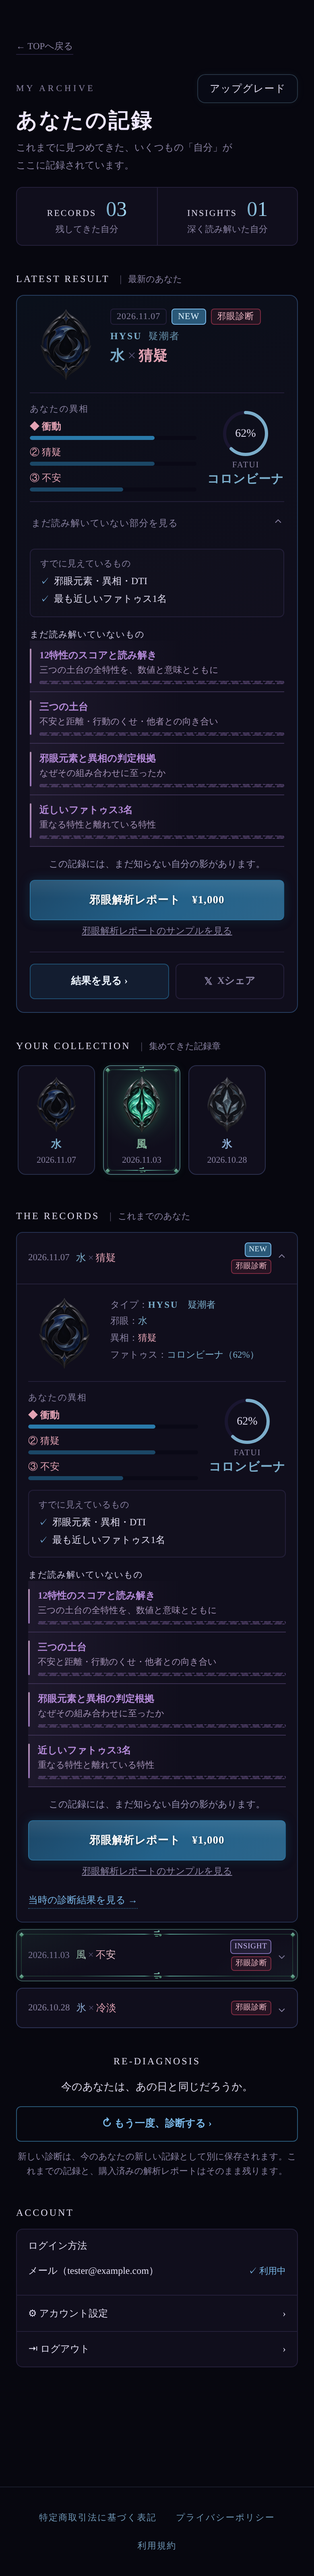
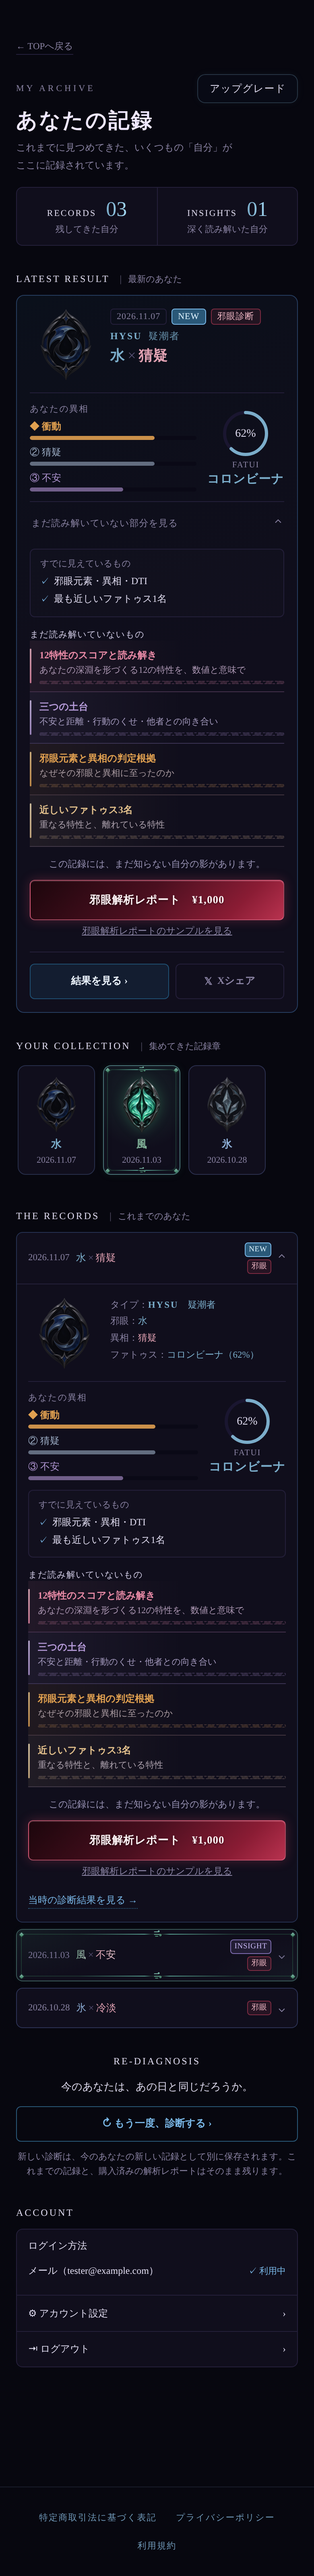
マイページの邪眼診断：異相は特性ごとの色（購入でグラデーション）、購入でファトゥスのグラデーションの円グラフ、読み解いていないものは項目ごとの色、申込・閲覧のボタンは赤黒、これまでのあなたの印は「邪眼」「元素」
Claude-Session: https://claude.ai/code/session_01G98Q4k59pxprHjFdWRszS7

diff --git a/mypage.html b/mypage.html
@@ -470,6 +470,24 @@
   .mp-jg-insight { margin-top: 12px; }
   .mp-jg-insight-t { font-size: 12.5px; color: var(--fg-dim); margin: 4px 0 10px; line-height: 1.8; }
   .mp-jg-buy-error { font-size: 12px; color: #f2a7b5; margin: 8px 0 0; }
+  .mp-chip.eti { color: #a9c9ec; border-color: rgba(122,184,232,.45); background: rgba(122,184,232,.10); }
+  .mp-jg-fill { position: relative; height: 100%; border-radius: 3px; }
+  /* まだ読み解いていないもの（邪眼）：項目ごとの色 */
+  .mp-lockbox .mp-locked-row[data-domain="jg-traits"] { --dc1: #e88aa6; --dc2: #f4bccb; }
+  .mp-lockbox .mp-locked-row[data-domain="jg-ground"] { --dc1: #b59ad8; --dc2: #d6c4ee; }
+  .mp-lockbox .mp-locked-row[data-domain="jg-basis"] { --dc1: #e0a050; --dc2: #f0cc90; }
+  .mp-lockbox .mp-locked-row[data-domain="jg-fatui"] { --dc1: #e2c08c; --dc2: #f4e0b8; }
+  .mp-lockbox .mp-locked-row[data-domain^="jg-"] .ghost { animation: mpJgShimmer 3.2s ease-in-out infinite; }
+  @keyframes mpJgShimmer { 0%, 100% { opacity: .55; } 50% { opacity: 1; } }
+  @media (prefers-reduced-motion: reduce) { .mp-lockbox .mp-locked-row[data-domain^="jg-"] .ghost { animation: none; } }
+  /* 邪眼解析レポートの申込・閲覧：赤黒（邪眼診断の配色。元素の青にしない） */
+  /* 元素の青の申込ボタン（.mp-lockbox … a.mp-btn.primary 等）より優先する */
+  #root .mp-btn.primary.mp-jg-cta, .ca-sheet .mp-btn.primary.mp-jg-cta {
+    min-height: 50px; font-size: 13.5px; letter-spacing: .04em; color: #fff4f6 !important; border: 1px solid rgba(232,110,140,.65) !important;
+    background: linear-gradient(135deg, #1c060c 0%, #4a0f1f 45%, #8a1c34 80%, #b8324f 100%) !important;
+    box-shadow: 0 0 14px rgba(200,64,92,.32), inset 0 1px 0 rgba(255,200,215,.18) !important; text-shadow: 0 1px 2px rgba(0,0,0,.5);
+  }
+  #root .mp-btn.primary.mp-jg-cta:hover:not([disabled]), .ca-sheet .mp-btn.primary.mp-jg-cta:hover:not([disabled]) { filter: brightness(1.12); }
   .mp-latest { background: var(--card-bg); border: 1px solid var(--card-border); border-radius: 10px; padding: 16px; }
 
   /* ---- 購入状態の見た目（LATEST RESULT／YOUR COLLECTION／THE RECORDSで共通の考え方） ----
@@ -1751,6 +1769,8 @@ function mpEmblemSeasonKey(record) {
 // 邪眼診断の証：覚醒前（record）・覚醒後（awakened。邪眼解析レポートを購入済み）。元素ごと
 const MP_JAGAN_EMBLEM = { '炎': 'pyro', '水': 'hydro', '風': 'anemo', '雷': 'electro', '草': 'dendro', '氷': 'cryo', '岩': 'geo' };
 const MP_JG_ISOU = '#e3a3b4';
+// 色の値は #RRGGBB だけを使う（style に入れる前に確かめる）
+function mpHex(v) { return /^#[0-9a-fA-F]{6}$/.test(String(v || '')) ? v : null; }
 function mpEmblemSrc(record) {
   if (record && record.kind === 'jagan') {
     const f = MP_JAGAN_EMBLEM[record.el];
@@ -1864,8 +1884,9 @@ const MP_KINDS = {
         code, typeName: code ? mpEsc(h.name || '') : '',
         purchased: s.purchased === true, entKnown: s.entKnown === true,
         resultUrl: '/jagan/?saved=' + encodeURIComponent(s.id),
-        top3: Array.isArray(s.top3) ? s.top3.map((t) => ({ label: mpEsc(t.label), score: mpNum(t.score) })).filter((t) => t.score !== null) : [],
-        fatui: s.character && mpNum(s.character.match) !== null ? { name: mpEsc(s.character.name), match: mpNum(s.character.match) } : null,
+        top3: Array.isArray(s.top3) ? s.top3.map((t) => ({ label: mpEsc(t.label), score: mpNum(t.score), color: mpHex(t.color) })).filter((t) => t.score !== null) : [],
+        fatui: s.character && mpNum(s.character.match) !== null
+          ? { name: mpEsc(s.character.name), match: mpNum(s.character.match), grad: Array.isArray(s.character.grad) ? s.character.grad.map(mpHex) : [null, null] } : null,
       };
     },
     freeListHtml(r) {
@@ -2679,41 +2700,54 @@ function mpLatestHtml(r) {
    → 開いた中に、未購入はまだ読み解いていないものと申込、購入済みは「邪眼解析レポートを読む」 → 結果を見る・Xシェア。
    異相のグラフは長さだけ（数値は出さない。元素診断の「あなたに響く元素」と同じ）。 */
 function mpJaganVizHtml(r) {
-  const g2 = MP_EL_GLOW_END[r.el] || r.color;
+  // 異相：特性ごとの色。購入済み（INSIGHT）はその色のグラデーションと光、未購入は単色
+  // ファトゥス：購入済みは円グラフ・名前を、結果ページの人物名と同じグラデーション（人物の元素の色）にする
+  const awake = r.entKnown && r.purchased;
   const bars = r.top3.length ? `
       <div>
         <div class="mp-viz-title">あなたの異相</div>
-        ${r.top3.map((t, i) => `
-          <div class="mp-eltop">
-            <div class="mp-eltop-label"><span class="el${i === 0 ? ' r1' : ''}" style="--elc:${MP_JG_ISOU}">${i === 0 ? '◆' : i === 1 ? '②' : '③'} ${t.label}</span></div>
-            <div class="mp-eltop-track"><div class="mp-eltop-fill${i === 0 ? ' r1' : ''}" style="width:${Math.max(4, Math.min(100, t.score))}%;--elc:${r.color};--elc2:${g2}"></div></div>
-          </div>`).join('')}
+        ${r.top3.map((t, i) => {
+          const c = t.color || MP_JG_ISOU;
+          const fill = awake ? `background:linear-gradient(90deg, color-mix(in srgb, ${c} 55%, #2a0d16), ${c} 70%, color-mix(in srgb, ${c} 55%, #ffffff));box-shadow:0 0 6px color-mix(in srgb, ${c} 45%, transparent);opacity:1`
+            : `background:${c};opacity:${i === 0 ? '.9' : '.6'}`;
+          return `
+          <div class="mp-eltop mp-jg-trait">
+            <div class="mp-eltop-label"><span class="el${i === 0 ? ' r1' : ''}" style="color:${c}">${i === 0 ? '◆' : i === 1 ? '②' : '③'} ${t.label}</span></div>
+            <div class="mp-eltop-track"><div class="mp-jg-fill" style="width:${Math.max(4, Math.min(100, t.score))}%;${fill}"></div></div>
+          </div>`;
+        }).join('')}
       </div>` : '<div></div>';
-  const ring = r.fatui ? `
-      <div class="mp-ring" style="--rc:${mpElText(r.el)}" role="img" aria-label="最も近しいファトゥス ${r.fatui.name} 一致度${r.fatui.match}%">
-        ${mpRingSvg(r.fatui.match, mpElText(r.el), MP_EL_COLOR[r.el] ? [MP_EL_COLOR[r.el], g2] : null)}
+  let ring = '';
+  if (r.fatui) {
+    const g = r.fatui.grad[0] && r.fatui.grad[1] ? r.fatui.grad : [MP_EL_COLOR[r.el] || r.color, MP_EL_GLOW_END[r.el] || r.color];
+    const nameStyle = awake ? `background-image:linear-gradient(100deg, ${g[0]}, ${g[1]});-webkit-background-clip:text;background-clip:text;color:transparent` : `color:${mpElText(r.el)}`;
+    ring = `
+      <div class="mp-ring" style="--rc:${awake ? g[0] : mpElText(r.el)}" role="img" aria-label="最も近しいファトゥス ${r.fatui.name} 一致度${r.fatui.match}%">
+        ${mpRingSvg(r.fatui.match, mpElText(r.el), g)}
         <span class="lbl">FATUI</span>
-        <span class="who" style="color:${mpElText(r.el)}">${r.fatui.name}</span>
-      </div>` : '';
+        <span class="who" style="${nameStyle}">${r.fatui.name}</span>
+      </div>`;
+  }
   if (!r.top3.length && !ring) return '';
   return `<div class="mp-viz">${bars}${ring}</div>`;
 }
 function mpJaganActionsHtml(r, source) {
   if (!r.entKnown) return '<p class="mp-rec-mentor" role="status">購入の状態を確認できませんでした。時間をおいて、ページを読み込み直してください。</p>';
   if (r.purchased) {
-    return `<div class="mp-rec-actions"><div class="mp-rec-row"><a class="mp-btn primary mp-cta-el" href="/jagan/report?r=${encodeURIComponent(r.jg.id)}" onclick="trackEvent('jagan_report_read',{source:'${source}'})">邪眼解析レポートを読む</a></div></div>`;
+    return `<div class="mp-rec-actions"><div class="mp-rec-row"><a class="mp-btn primary mp-jg-cta" href="/jagan/report?r=${encodeURIComponent(r.jg.id)}" onclick="trackEvent('jagan_report_read',{source:'${source}'})">邪眼解析レポートを読む</a></div></div>`;
   }
   if (!r.code) return '<p class="mp-legacy-retired" role="note">この記録は以前の版の判定のため、邪眼解析レポートの対象外です。新しく診断すると、お申し込みいただけます。</p>';
   if (!(window.JaganMypage && window.JaganMypage.salesOpen())) {
-    return '<div class="mp-rec-actions"><div class="mp-rec-row"><button type="button" class="mp-btn primary mp-cta-el is-pending" disabled aria-disabled="true" style="opacity:0.6;cursor:not-allowed">邪眼解析レポート（準備中）</button></div></div>';
+    return '<div class="mp-rec-actions"><div class="mp-rec-row"><button type="button" class="mp-btn primary mp-jg-cta is-pending" disabled aria-disabled="true" style="opacity:0.6;cursor:not-allowed">邪眼解析レポート（準備中）</button></div></div>';
   }
-  return `<div class="mp-rec-actions"><div class="mp-rec-row"><button type="button" class="mp-btn primary mp-cta-el" data-jagan-buy="${mpEsc(r.jg.id)}" data-source="${source}">邪眼解析レポート　¥1,000</button><a class="mp-rec-sample" href="/jagan/sample">邪眼解析レポートのサンプルを見る</a></div></div>`;
+  return `<div class="mp-rec-actions"><div class="mp-rec-row"><button type="button" class="mp-btn primary mp-jg-cta" data-jagan-buy="${mpEsc(r.jg.id)}" data-source="${source}">邪眼解析レポート　¥1,000</button><a class="mp-rec-sample" href="/jagan/sample">邪眼解析レポートのサンプルを見る</a></div></div>`;
 }
+// 項目ごとの色（12特性＝薔薇、三つの土台＝紫、判定根拠＝琥珀、ファトゥス＝金）
 const MP_JG_LOCKED = [
-  ['12特性のスコアと読み解き', '三つの土台の全特性を、数値と意味とともに'],
-  ['三つの土台', '不安と距離・行動のくせ・他者との向き合い'],
-  ['邪眼元素と異相の判定根拠', 'なぜその組み合わせに至ったか'],
-  ['近しいファトゥス3名', '重なる特性と離れている特性'],
+  ['12特性のスコアと読み解き', 'あなたの深淵を形づくる12の特性を、数値と意味で', 'jg-traits'],
+  ['三つの土台', '不安と距離・行動のくせ・他者との向き合い', 'jg-ground'],
+  ['邪眼元素と異相の判定根拠', 'なぜその邪眼と異相に至ったのか', 'jg-basis'],
+  ['近しいファトゥス3名', '重なる特性と、離れている特性', 'jg-fatui'],
 ];
 function mpJaganLockedHtml(r, where) {
   return `
@@ -2723,7 +2757,7 @@ function mpJaganLockedHtml(r, where) {
         <ul class="mp-seen-list"><li>邪眼元素・異相・DTI</li><li>最も近しいファトゥス1名</li></ul>
       </div>
       <div class="mp-locked-title">まだ読み解いていないもの</div>
-      ${MP_JG_LOCKED.map(([t, cap]) => `<div class="mp-locked-row" data-domain="jagan"><span class="txt"><span class="t">${t}</span><span class="cap">${cap}</span><span class="ghost" aria-hidden="true"></span></span></div>`).join('')}
+      ${MP_JG_LOCKED.map(([t, cap, d]) => `<div class="mp-locked-row" data-domain="${d}"><span class="txt"><span class="t">${t}</span><span class="cap">${cap}</span><span class="ghost" aria-hidden="true"></span></span></div>`).join('')}
       <p class="mp-rec-cta-note">この記録には、まだ知らない自分の影があります。</p>
       ${mpJaganActionsHtml(r, where === 'latest' ? 'mypage_latest' : 'mypage_history')}
     </div>`;
@@ -2736,9 +2770,9 @@ function mpJaganInsightHtml(r, where) {
       ${mpJaganActionsHtml(r, where === 'latest' ? 'mypage_latest' : 'mypage_history')}
     </div>`;
 }
-function mpJaganChips(r, isNew) {
+function mpJaganChips(r, isNew, kindText) {
   const awake = r.entKnown && r.purchased;
-  return `${isNew ? '<span class="mp-chip new">NEW</span>' : ''}${awake ? '<span class="mp-chip insight">INSIGHT</span>' : ''}<span class="mp-chip jagan">邪眼診断</span>${r.isLegacy ? '<span class="mp-chip legacy">旧版</span>' : ''}`;
+  return `${isNew ? '<span class="mp-chip new">NEW</span>' : ''}${awake ? '<span class="mp-chip insight">INSIGHT</span>' : ''}<span class="mp-chip jagan">${kindText || '邪眼診断'}</span>${r.isLegacy ? '<span class="mp-chip legacy">旧版</span>' : ''}`;
 }
 function mpJaganLatestHtml(r) {
   const awake = r.entKnown && r.purchased;
@@ -2780,7 +2814,7 @@ function mpJaganRecordHtml(r, i) {
       <summary>${awake ? mpOrnHtml(r, r.color, g2) : ''}
         <span class="d">${mpDate(r.date)}</span>
         <span class="c">${mpComboHtml(r)}</span>
-        <span class="mp-chip-row">${mpJaganChips(r, i === 0)}</span>
+        <span class="mp-chip-row">${mpJaganChips(r, i === 0, '邪眼')}</span>
       </summary>
       <div class="mp-rec-body">
         <div class="mp-free">
@@ -2852,7 +2886,7 @@ function mpRecordHtml(r, i) {
   const detailLink = r.resultUrl
     ? `<a href="${mpEsc(mpResultHref(r))}" class="mp-detail-link" onclick="trackEvent('mypage_view_result_click',{source:'records'})">当時の診断結果を見る →</a>`
     : '';
-  const chips = `${i === 0 ? '<span class="mp-chip new">NEW</span>' : ''}${!mpEntitlementOk ? '' : mpIsComplete(r) ? '<span class="mp-chip complete">COMPLETE</span>' : mpAwake(r) ? '<span class="mp-chip insight">INSIGHT</span>' : ''}${r.isLegacy ? '<span class="mp-chip legacy">旧版</span>' : ''}`;
+  const chips = `${i === 0 ? '<span class="mp-chip new">NEW</span>' : ''}${mpHasJagan ? '<span class="mp-chip eti">元素</span>' : ''}${!mpEntitlementOk ? '' : mpIsComplete(r) ? '<span class="mp-chip complete">COMPLETE</span>' : mpAwake(r) ? '<span class="mp-chip insight">INSIGHT</span>' : ''}${r.isLegacy ? '<span class="mp-chip legacy">旧版</span>' : ''}`;
   let body;
   // 開閉（<details>）は購入状態APIと無関係。確認できなかった記録も開けて、中に再確認を出す
   if (!mpEntitlementOk) body = mpVizHtml(r) + mpRecordActionsHtml(r, 'records');
@@ -3267,7 +3301,7 @@ function caPickerHtml(records) {
       <p class="ca-body">レポートは診断記録ごとです。対象の記録を選んでください。</p>
     </div>
     <ul class="ca-pick-list">${records.map((r, i) => `<li><button type="button" class="ca-pick" data-pick-index="${i}">
-      <span class="ca-pick-date">${mpDate(r.date)}${i === 0 ? '<span class="ca-pick-new">最新</span>' : ''}${r.kind === 'jagan' ? '<span class="mp-chip jagan">邪眼診断</span>' : ''}${mpEntitlementOk ? (mpIsComplete(r) ? '<span class="mp-chip complete">COMPLETE</span>' : mpAwake(r) ? '<span class="mp-chip insight">INSIGHT</span>' : '') : ''}</span>
+      <span class="ca-pick-date">${mpDate(r.date)}${i === 0 ? '<span class="ca-pick-new">最新</span>' : ''}${r.kind === 'jagan' ? '<span class="mp-chip jagan">邪眼</span>' : mpHasJagan ? '<span class="mp-chip eti">元素</span>' : ''}${mpEntitlementOk ? (mpIsComplete(r) ? '<span class="mp-chip complete">COMPLETE</span>' : mpAwake(r) ? '<span class="mp-chip insight">INSIGHT</span>' : '') : ''}</span>
       <span class="ca-pick-combo">${mpComboHtml(r)}</span>
       <span class="ca-pick-state">${mpPickState(r)}</span></button></li>`).join('')}</ul>`;
 }
@@ -4080,6 +4114,8 @@ function mpWithoutSameResultDuplicates(sessions) {
   const ids = new Set(sessions.map((s) => s && s.id));
   return sessions.filter((s) => !(s && s.complete && s.complete.duplicateOf && ids.has(s.complete.duplicateOf)));
 }
+// 邪眼診断の記録がある時だけ、これまでのあなた・右上の選択で「元素」「邪眼」の印を付ける
+let mpHasJagan = false;
 function renderMypage(root, sessions, userOrUid, jaganSessions, jagan) {
   const eti = mpWithoutSameResultDuplicates(sessions)
     .slice()
@@ -4093,6 +4129,7 @@ function renderMypage(root, sessions, userOrUid, jaganSessions, jagan) {
   const records = eti.concat((jaganSessions || []).map(mpNormalize))
     .sort((a, b) => new Date(b.date) - new Date(a.date));
   window.__mpRecords = records;
+  mpHasJagan = records.some((r) => r.kind === 'jagan');
 
   root.innerHTML = `
     ${jagan && window.JaganMypage ? window.JaganMypage.notesHtml(jagan.notes) : ''}

diff --git a/js/jagan-mypage.js b/js/jagan-mypage.js
@@ -19,6 +19,17 @@
   // 共有の URL（jagan/engine/runtime.mjs の shareQuery と同じ。テストで一致を確かめる）
   var SHARE_PATH = '/jagan/share';
   var OG_DESIGN_VERSION = 'dti-og-2';
+  // 色（jagan/site-copy.mjs の ISOU_COLOR・ELEMENT_COLOR・CHARACTER_ELEMENTS と同じ値。テストで一致を確かめる）
+  var ISOU_COLOR = { ANX: '#B59AD8', SEP: '#7FA7D8', SUS: '#9FB0C8', WDR: '#8FC0D0', IMP: '#E0A050', PSV: '#B8A27A', PRF: '#D8C27A',
+    HOS: '#E0694F', ATT: '#E08AA8', MAN: '#C88AD8', RSK: '#E07A5A', CAL: '#9AA7B5' };
+  var ELEMENT_MAIN = { PY: '#C9503C', HY: '#3F82BC', CR: '#7DB3C6', EL: '#9563CF', AN: '#4FAE98', GE: '#C9A04E', DE: '#78A84A' };
+  var CHARACTER_ELEMENTS = { pierro: ['EL'], capitano: ['CR'], columbina: ['HY'], tartaglia: ['HY', 'EL'], sandrone: ['CR', 'GE'], arlecchino: ['PY'],
+    pulcinella: ['HY', 'CR'], pantalone: ['DE'], signora: ['CR', 'PY'], scaramouche: ['EL', 'AN'], dottore: ['PY', 'DE'] };
+  // ファトゥスのグラデーション（結果ページの人物名と同じ：jagan/view.mjs の characterGradient）
+  function characterStops(id) {
+    var els = CHARACTER_ELEMENTS[id] || [];
+    return els.length >= 2 ? [ELEMENT_MAIN[els[0]], ELEMENT_MAIN[els[1]]] : els.length === 1 ? [ELEMENT_MAIN[els[0]], '#F4E6EA'] : ['#E2C08C', '#C8405C'];
+  }
   var notes = [];
   var inFlight = null;
 
@@ -98,7 +109,7 @@
   function top3(snap) {
     var tr = snap && Array.isArray(snap.traitRanking) ? snap.traitRanking : [];
     return tr.slice(0, 3).filter(function (t) { return t && typeof t.label === 'string' && typeof t.score === 'number' && isFinite(t.score); })
-      .map(function (t) { return { id: t.id, label: t.label, score: Math.max(0, Math.min(100, Math.round(t.score))) }; });
+      .map(function (t) { return { id: t.id, label: t.label, score: Math.max(0, Math.min(100, Math.round(t.score))), color: ISOU_COLOR[t.id] || '#C99AA7' }; });
   }
   // マイページの記録の元（mypage.html の MP_KINDS.jagan.normalize が描画用の形に直す）
   function toSession(row, ent) {
@@ -112,7 +123,7 @@
       isouId: dtiOk && snap.isou ? snap.isou.id : null,
       namingVersion: dtiOk && snap.versions ? snap.versions.naming : null,
       top3: dtiOk ? top3(snap) : [],
-      character: ch ? { id: ch.id, name: ch.name, match: ch.match } : null,
+      character: ch ? { id: ch.id, name: ch.name, match: ch.match, grad: characterStops(ch.id) } : null,
       entKnown: ent.ok, purchased: ent.ok && ent.set[row.result_id] === true,
     };
   }
@@ -239,5 +250,6 @@
   }
 
   window.JaganMypage = { load: load, notesHtml: notesHtml, gateNote: gateNote, hasPending: hasPending, hasRegister: hasRegister,
-    salesOpen: salesOpen, share: share, shareUrlOf: shareUrlOf, shareTextOf: shareTextOf, esc: esc };
+    salesOpen: salesOpen, share: share, shareUrlOf: shareUrlOf, shareTextOf: shareTextOf, esc: esc, characterStops: characterStops,
+    COLORS: { ISOU_COLOR: ISOU_COLOR, ELEMENT_MAIN: ELEMENT_MAIN, CHARACTER_ELEMENTS: CHARACTER_ELEMENTS } };
 })();
